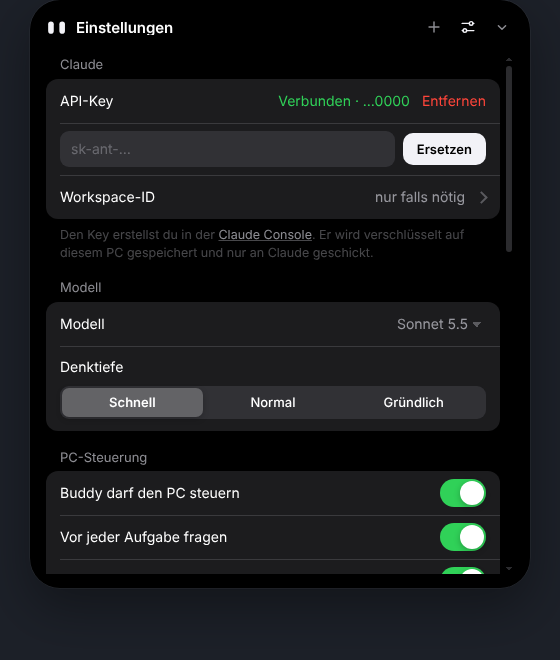
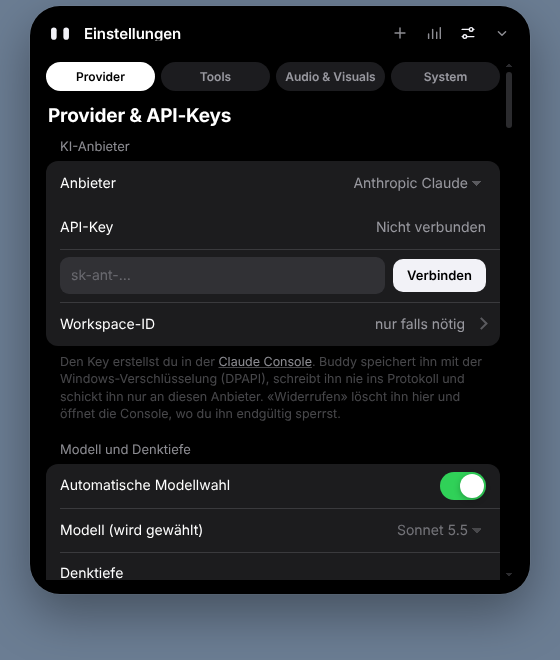
Website für Version 0.4: mehrere KI-Anbieter, lokale KI, Systemsprache, Tool-Erkennung, Visualizer
Neue Funktionskarten und FAQ, Vorschauen für Notch, Musik-Visualizer und die neuen
Einstellungen, Demo mit geschlossenen Augen und Notch, Datenschutz ergänzt.

Claude-Session: https://claude.ai/code/session_019aeRaodHXNXqEmeAxLVjik

diff --git a/index.html b/index.html
@@ -32,15 +32,15 @@
   <main id="top">
     <!-- Hero -->
     <section class="hero">
-      <p class="eyebrow">Testversion 0.3 · Windows 10 & 11</p>
+      <p class="eyebrow">Testversion 0.4 · Windows 10 & 11</p>
       <h1>Dein Assistent wohnt<br>oben am Bildschirm.</h1>
-      <p class="lead">Buddy Island bringt Claude in ein kleines Island oben in der Mitte deines Windows-Bildschirms. Fragen, Timer, Musik, Termine, Mitteilungen, und wenn du willst, bedient Buddy den PC für dich.</p>
+      <p class="lead">Buddy Island ist ein kleines Island oben in der Mitte deines Windows-Bildschirms. Fragen, Timer, Musik, Termine, Mitteilungen, und wenn du willst, bedient Buddy den PC für dich. Er läuft gratis mit einer lokalen KI auf deinem PC oder mit Claude, OpenAI, Grok oder Gemini.</p>
       <div class="cta" id="download">
         <a class="btn" id="downloadBtn" href="https://github.com/wolfawidmer-sudo/buddy-island/releases/latest">
           <svg viewBox="0 0 20 20" aria-hidden="true"><path d="M10 3.5v9M6 9l4 4 4-4M4 16.5h12"/></svg>
           Für Windows herunterladen
         </a>
-        <p class="cta-note"><span id="downloadInfo">Gratis · ca. 120 MB</span> · braucht einen eigenen <a href="#faq-key">Claude-API-Key</a></p>
+        <p class="cta-note"><span id="downloadInfo">Gratis · ca. 120 MB</span> · läuft lokal ohne Konto, <a href="#faq-key">API-Key optional</a></p>
       </div>
 
       <!-- Vorschau: animiertes Island auf einem Bildschirm -->
@@ -64,18 +64,18 @@
         <div class="cursor" id="demoCursor" aria-hidden="true"></div>
         <div class="taskbar" aria-hidden="true"><i></i><i></i><i></i><i></i><i></i></div>
       </div>
-      <p class="screen-caption" id="demoCaption">Im Ruhezustand ist Buddy nur ein kleines Island.</p>
+      <p class="screen-caption" id="demoCaption">Im Ruhezustand zeigt Buddy nur seine Augen.</p>
     </section>
 
     <!-- Funktionen -->
     <section class="section" id="funktionen">
       <h2>Alles, was ein Assistent können sollte.</h2>
-      <p class="section-lead">Buddy läuft mit deinem eigenen Claude-API-Key und braucht kein Konto bei uns.</p>
+      <p class="section-lead">Buddy braucht kein Konto bei uns. Er startet mit einer lokalen KI und nimmt auf Wunsch deinen eigenen API-Key.</p>
       <div class="features">
         <article class="feature">
           <svg viewBox="0 0 24 24" aria-hidden="true"><path d="M12 3v4M12 17v4M4.5 7.5l3 2M16.5 14.5l3 2M4.5 16.5l3-2M16.5 9.5l3-2"/><circle cx="12" cy="12" r="3"/></svg>
           <h3>Automatische Modellwahl</h3>
-          <p>Haiku prüft jede Anfrage und nimmt das günstigste Modell, das reicht. Hakt es, wechselt Buddy selbst auf ein stärkeres.</p>
+          <p>Ein kleines Modell prüft jede Anfrage und nimmt das günstigste, das reicht. Hakt es, wechselt Buddy selbst auf ein stärkeres.</p>
         </article>
         <article class="feature">
           <svg viewBox="0 0 24 24" aria-hidden="true"><path d="M5 6h14M5 12h14M5 18h8"/><path d="M16 17l2 2 3-4"/></svg>
@@ -88,19 +88,34 @@
           <p>Kosten, Tokens und Limits von Buddy, Claude Code, Codex und mehr. Was ein Anbieter nicht herausgibt, steht ehrlich als «nicht verfügbar».</p>
         </article>
         <article class="feature">
-          <svg viewBox="0 0 24 24" aria-hidden="true"><path d="M4 6.5A2.5 2.5 0 0 1 6.5 4h11A2.5 2.5 0 0 1 20 6.5v7a2.5 2.5 0 0 1-2.5 2.5H10l-4 4v-4h0A2 2 0 0 1 4 14z"/></svg>
-          <h3>Chat mit Claude</h3>
-          <p>Antworten erscheinen live im Island, mit Code-Blöcken und Kopieren-Knopf.</p>
+          <svg viewBox="0 0 24 24" aria-hidden="true"><circle cx="6" cy="7" r="2.5"/><circle cx="18" cy="7" r="2.5"/><circle cx="12" cy="17.5" r="2.5"/><path d="M8 8.5l2.8 6.6M16 8.5l-2.8 6.6M8.5 7h7"/></svg>
+          <h3>Deine Wahl der KI</h3>
+          <p>Claude, OpenAI, Grok, Gemini oder ein lokales Modell von Hugging Face. Was ein Modell nicht kann (z. B. Bildschirmfotos), sagt Buddy ehrlich.</p>
+        </article>
+        <article class="feature">
+          <svg viewBox="0 0 24 24" aria-hidden="true"><rect x="4" y="4" width="16" height="12" rx="2"/><path d="M8 20h8M12 16v4M8 9l2.5 2.5L8 14M13 14h3"/></svg>
+          <h3>Lokal und gratis</h3>
+          <p>Buddy prüft Arbeitsspeicher, Prozessor und Grafikkarte, empfiehlt das schnellste und das beste Modell und richtet es mit einem Klick ein. Danach läuft er ohne Internet.</p>
+        </article>
+        <article class="feature">
+          <svg viewBox="0 0 24 24" aria-hidden="true"><circle cx="12" cy="12" r="8.5"/><path d="M3.5 12h17M12 3.5c2.5 2.6 3.5 5.4 3.5 8.5s-1 5.9-3.5 8.5c-2.5-2.6-3.5-5.4-3.5-8.5s1-5.9 3.5-8.5z"/></svg>
+          <h3>Spricht deine Sprache</h3>
+          <p>Buddy übernimmt beim Start die Sprache von Windows: Oberfläche und Antworten kommen auf Deutsch, Englisch oder Französisch.</p>
+        </article>
+        <article class="feature">
+          <svg viewBox="0 0 24 24" aria-hidden="true"><circle cx="10.5" cy="10.5" r="6"/><path d="M15 15l5 5M8 10.5h5M10.5 8v5"/></svg>
+          <h3>Erkennt deine Tools</h3>
+          <p>Claude Code, Codex, ChatGPT, Gemini CLI und lokale Laufzeiten findet Buddy selbst. Was nicht installiert ist, taucht in Buddy gar nicht erst auf.</p>
         </article>
         <article class="feature">
           <svg viewBox="0 0 24 24" aria-hidden="true"><path d="M5 4l5 15 2.5-6.5L19 10z"/></svg>
           <h3>PC-Steuerung</h3>
-          <p>«Öffne den Editor und schreib eine Einkaufsliste.» Buddy fragt vorher und bedient dann Maus und Tastatur.</p>
+          <p>«Öffne den Editor und schreib eine Einkaufsliste.» Buddy fragt vorher und bedient dann Maus und Tastatur (mit Claude).</p>
         </article>
         <article class="feature">
           <svg viewBox="0 0 24 24" aria-hidden="true"><path d="M9 18V6l10-2v12"/><circle cx="6.5" cy="18" r="2.5"/><circle cx="16.5" cy="16" r="2.5"/></svg>
-          <h3>Läuft gerade</h3>
-          <p>Musik aus Spotify oder YouTube erscheint mit Cover im Island. Pause und Weiter direkt dort.</p>
+          <h3>Musik mit Visualizer</h3>
+          <p>Spotify oder YouTube erscheinen mit Cover im Island, die Balken folgen dem echten Systemton. Pause und Weiter direkt dort.</p>
         </article>
         <article class="feature">
           <svg viewBox="0 0 24 24" aria-hidden="true"><rect x="4" y="5.5" width="16" height="14" rx="2.5"/><path d="M4 10h16M8.5 3.5v4M15.5 3.5v4"/></svg>
@@ -131,6 +146,48 @@
     </section>
 
     <!-- Bilder -->
+    <!-- Neu in 0.4: Vorschauen aus HTML und CSS, gleiche Kurven wie in der App -->
+    <section class="section" id="neu">
+      <h2>Neu in Version 0.4.</h2>
+      <p class="section-lead">Mehr Auswahl bei der KI, ein echter Musik-Visualizer und ein Island, das sich ganz an den Bildschirmrand schmiegt.</p>
+      <div class="mocks">
+        <figure class="mock">
+          <div class="mock-screen" aria-hidden="true">
+            <div class="m-island m-notch" id="mockNotch"><span class="m-eyes"><i></i><i></i></span></div>
+            <span class="m-hint" id="mockNotchHint">Nach oben ziehen</span>
+          </div>
+          <figcaption><b>Notch-Modus.</b> Zieh das Island nach oben: Es wird zu einer tiefschwarzen Kerbe am Bildschirmrand, ohne Schatten und ohne Spalt. Nach unten ziehen oder klicken holt es zurück.</figcaption>
+        </figure>
+        <figure class="mock">
+          <div class="mock-screen" aria-hidden="true">
+            <div class="m-music">
+              <span class="m-cover"></span>
+              <span class="m-track"><b>Blinding Lights</b><small>The Weeknd</small></span>
+              <span class="m-bars" id="mockBars"><i></i><i></i><i></i><i></i><i></i><i></i><i></i></span>
+            </div>
+          </div>
+          <figcaption><b>Musik mit Visualizer.</b> Cover und Titel im Island, die Balken folgen dem Pegel der Windows-Tonausgabe. Es wird nichts aufgenommen.</figcaption>
+        </figure>
+        <figure class="mock">
+          <div class="mock-screen mock-settings" aria-hidden="true">
+            <div class="m-panel">
+              <div class="m-tabs"><span class="on">Provider</span><span>Tools</span><span>Audio &amp; Visuals</span><span>System</span></div>
+              <p class="m-h">Provider &amp; API-Keys</p>
+              <div class="m-group">
+                <div class="m-row"><span>Anbieter</span><span class="m-select" id="mockProvider">Lokal (Hugging Face)</span></div>
+                <div class="m-row"><span>Lokales Modell</span><span class="m-val" id="mockModel">Qwen2.5 3B · bereit</span></div>
+              </div>
+              <div class="m-group m-reco">
+                <div class="m-row"><span>Am schnellsten</span><span class="m-val">Qwen2.5 1.5B</span></div>
+                <div class="m-row"><span>Beste Antworten</span><span class="m-val">Qwen2.5 3B</span></div>
+              </div>
+            </div>
+          </div>
+          <figcaption><b>Neue Einstellungen.</b> Vier klare Bereiche, Anbieter per Auswahl, Empfehlung für deinen PC. Erkannte Tools erscheinen nur, wenn sie installiert sind.</figcaption>
+        </figure>
+      </div>
+    </section>
+
     <section class="section shots">
       <h2>Ruhig, klar, ohne Ablenkung.</h2>
       <p class="section-lead">Im Leerlauf läuft keine einzige Animation. CPU und GPU bleiben praktisch bei 0 %.</p>
@@ -138,7 +195,7 @@
         <figure><img src="img/music.png" alt="Offenes Island mit laufender Musik und Vorschlägen"><figcaption>Musik und Vorschläge</figcaption></figure>
         <figure><img src="img/chat.png" alt="Chat mit Timer und Mitteilungen"><figcaption>Timer und Mitteilungen</figcaption></figure>
         <figure><img src="img/confirm.png" alt="Buddy fragt, ob er den PC steuern darf"><figcaption>Fragt vor dem Steuern</figcaption></figure>
-        <figure><img src="img/settings.png" alt="Einstellungen im iOS-Stil"><figcaption>Einstellungen</figcaption></figure>
+        <figure><img src="img/settings.png" alt="Einstellungen mit den Bereichen Provider, Tools, Audio &amp; Visuals und System"><figcaption>Einstellungen mit Anbieter-Wahl</figcaption></figure>
       </div>
       <figure class="wide"><img src="img/glow.png" alt="Leuchtender weiss-grauer Rand um den Bildschirm"><figcaption>Wenn Buddy hinschaut oder steuert, leuchtet der Bildschirmrand.</figcaption></figure>
     </section>
@@ -157,7 +214,7 @@
         </li>
         <li>
           <span class="step-n">3</span>
-          <div><h3>API-Key verbinden</h3><p>Erstelle in der <a href="https://platform.claude.com/settings/keys" rel="noopener">Claude Console</a> einen Key, klick oben aufs Island und füge ihn unter «API-Key verbinden» ein.</p></div>
+          <div><h3>KI einrichten</h3><p>Klick aufs Island und dann auf «Lokale KI einrichten»: Buddy wählt das passende Modell für deinen PC und lädt es. Lieber Claude, OpenAI, Grok oder Gemini? Füge in den Einstellungen unter «Provider &amp; API-Keys» deinen Key ein.</p></div>
         </li>
         <li>
           <span class="step-n">4</span>
@@ -176,11 +233,11 @@
         </div>
         <div class="card">
           <h3>Verschlüsselt gespeichert</h3>
-          <p>API-Key und Kalender-Link liegen mit der Windows-Verschlüsselung nur auf deinem PC.</p>
+          <p>API-Keys und Kalender-Link liegen mit der Windows-Verschlüsselung nur auf deinem PC. Lokale Modelle schicken gar nichts weg.</p>
         </div>
         <div class="card">
           <h3>Du entscheidest</h3>
-          <p>Bildschirmfotos gehen nur bei der PC-Steuerung an Claude, und nur nachdem du erlaubt hast.</p>
+          <p>Texte gehen nur an den KI-Anbieter, den du wählst. Bildschirmfotos nur bei der PC-Steuerung mit Claude, und nur nachdem du erlaubt hast.</p>
         </div>
       </div>
       <p class="more"><a href="privacy.html">Ganze Datenschutzerklärung lesen →</a></p>
@@ -191,8 +248,16 @@
       <h2>Fragen</h2>
       <div class="faq">
         <details id="faq-key">
-          <summary>Was ist ein Claude-API-Key und was kostet er?</summary>
-          <p>Mit dem Key nutzt Buddy Claude direkt bei Anthropic. Du bezahlst dort nur, was du brauchst, meist wenige Rappen pro Unterhaltung. Die PC-Steuerung kostet mehr, weil Bildschirmfotos mitgeschickt werden. Buddy selbst ist gratis.</p>
+          <summary>Brauche ich einen API-Key?</summary>
+          <p>Nein. Ohne Key läuft Buddy mit einem lokalen Modell gratis auf deinem PC. Ein Key von Claude, OpenAI, xAI (Grok) oder Google (Gemini) macht die Antworten klüger und ist nötig für die PC-Steuerung (nur Claude). Du bezahlst beim Anbieter nur, was du brauchst, meist wenige Rappen pro Unterhaltung.</p>
+        </details>
+        <details>
+          <summary>Welches lokale Modell passt zu meinem PC?</summary>
+          <p>Buddy misst Arbeitsspeicher, Prozessor und Grafikkarte und schlägt zwei Modelle vor: das schnellste und das mit den besten Antworten. Mit einer NVIDIA-Grafikkarte laufen auch grössere Modelle flüssig, sonst sind kleine Modelle wie Qwen2.5 1.5B die beste Wahl. Der erste Download braucht etwa 1 bis 3 GB.</p>
+        </details>
+        <details>
+          <summary>In welcher Sprache antwortet Buddy?</summary>
+          <p>In der Sprache von Windows. Die Oberfläche gibt es auf Deutsch, Englisch und Französisch, für andere Sprachen ist sie englisch, die Antworten kommen trotzdem in deiner Sprache. In den Einstellungen kannst du die Sprache auch fest wählen.</p>
         </details>
         <details>
           <summary>Warum warnt Windows beim Installieren?</summary>
@@ -215,8 +280,8 @@
   </main>
 
   <footer class="footer">
-    <p>Buddy Island ist ein Testprojekt von Wolf Widmer · Version 0.3.0</p>
-    <p>Nutzt Claude von Anthropic über die offizielle API. Kein offizielles Produkt von Anthropic, Apple oder Microsoft.</p>
+    <p>Buddy Island ist ein Testprojekt von Wolf Widmer · Version 0.4.0</p>
+    <p>Nutzt die offiziellen APIs von Anthropic, OpenAI, xAI und Google oder lokale Modelle über Hugging Face Transformers. Kein offizielles Produkt dieser Firmen, von Apple oder Microsoft.</p>
     <p><a href="privacy.html">Datenschutz</a> · <a href="https://github.com/wolfawidmer-sudo/buddy-island">Quellcode auf GitHub</a></p>
   </footer>
 

diff --git a/style.css b/style.css
@@ -168,7 +168,7 @@ h1 {
   border-radius: 19px;
   background: #000;
   box-shadow: 0 0 0 0.5px rgba(255, 255, 255, 0.08);
-  transition: width 0.55s var(--spring), height 0.45s var(--ease), border-radius 0.45s var(--ease);
+  transition: width 0.55s var(--spring), height 0.45s var(--ease), border-radius 0.45s var(--ease), top 0.45s var(--ease);
   overflow: hidden;
   white-space: nowrap;
   font-size: 13px;
@@ -316,3 +316,62 @@ figcaption { margin-top: 10px; font-size: 14px; color: var(--text-3); text-align
   *, *::before, *::after { animation: none !important; transition: none !important; }
   html { scroll-behavior: auto; }
 }
+
+/* ---------- Neu in 0.4: Vorschauen ---------- */
+.mocks { display: grid; grid-template-columns: repeat(3, minmax(0, 1fr)); gap: 18px; margin-top: 28px; }
+.mock { margin: 0; display: flex; flex-direction: column; gap: 12px; }
+.mock figcaption { font-size: 14px; color: var(--text-2); line-height: 1.5; }
+.mock figcaption b { color: var(--text); font-weight: 600; }
+.mock-screen {
+  position: relative; height: 210px; border-radius: 16px; overflow: hidden;
+  background: radial-gradient(120% 90% at 20% 0%, #3a4a63 0%, #1d2532 55%, #12161d 100%);
+  border: 1px solid var(--line);
+}
+/* Island bzw. Notch: tiefes Schwarz, keine Schatten, kein Spalt zum Rand */
+.m-island {
+  position: absolute; left: 50%; top: 12px; transform: translateX(-50%);
+  width: 112px; height: 32px; border-radius: 16px; background: #000;
+  display: flex; align-items: center; justify-content: center;
+  transition: top 0.45s var(--ease), height 0.45s var(--ease), width 0.5s var(--spring), border-radius 0.45s var(--ease);
+}
+.m-island.is-notch { top: -1px; height: 18px; width: 128px; border-radius: 0 0 11px 11px; }
+.m-eyes { display: flex; gap: 5px; transition: opacity 0.3s var(--ease); }
+.m-eyes i { width: 9px; height: 2.5px; border-radius: 2px; background: var(--accent); }
+.m-island.is-notch .m-eyes { opacity: 0; }
+.m-hint { position: absolute; left: 50%; bottom: 18px; transform: translateX(-50%); font-size: 12px; color: rgba(255, 255, 255, 0.55); white-space: nowrap; transition: opacity 0.3s; }
+
+.m-music {
+  position: absolute; left: 50%; top: 12px; transform: translateX(-50%);
+  width: min(300px, 88%); height: 52px; border-radius: 26px; background: #000;
+  display: flex; align-items: center; gap: 10px; padding: 0 16px 0 10px; box-sizing: border-box;
+}
+.m-cover { width: 34px; height: 34px; border-radius: 9px; flex: none; background: linear-gradient(135deg, #e8505b 0%, #c2185b 45%, #f7a440 100%); }
+.m-track { display: flex; flex-direction: column; min-width: 0; flex: 1; line-height: 1.25; font-size: 13px; }
+.m-track b { font-weight: 600; white-space: nowrap; overflow: hidden; text-overflow: ellipsis; }
+.m-track small { color: var(--text-2); font-size: 11.5px; }
+.m-bars { display: flex; align-items: flex-end; gap: 2.5px; height: 18px; flex: none; }
+.m-bars i { width: 3px; height: 100%; border-radius: 2px; background: var(--accent); transform-origin: 50% 100%; transform: scaleY(0.3); will-change: transform; }
+
+.mock-settings { display: flex; justify-content: center; align-items: flex-start; padding-top: 12px; box-sizing: border-box; }
+.m-panel { width: 88%; background: #000; border-radius: 18px; padding: 10px; font-size: 11.5px; box-sizing: border-box; }
+.m-tabs { display: flex; gap: 4px; }
+.m-tabs span { flex: 1; text-align: center; padding: 4px 0; border-radius: 99px; background: rgba(255, 255, 255, 0.1); color: var(--text-2); white-space: nowrap; font-size: 10px; }
+.m-tabs span.on { background: #fff; color: #000; font-weight: 600; }
+.m-h { margin: 10px 2px 6px; font-weight: 700; font-size: 13px; }
+.m-group { background: rgba(255, 255, 255, 0.08); border-radius: 10px; padding: 0 10px; margin-bottom: 6px; }
+.m-row { display: flex; justify-content: space-between; gap: 8px; padding: 6px 0; }
+.m-row + .m-row { border-top: 1px solid rgba(255, 255, 255, 0.08); }
+.m-row span:first-child { color: var(--text); }
+.m-val, .m-select { color: var(--text-2); white-space: nowrap; transition: opacity 0.25s var(--ease); }
+.m-select::after { content: " ▾"; font-size: 9px; }
+.m-reco .m-val { color: var(--accent); }
+
+/* Ruhezustand der Vorschau: nur die geschlossenen Augen, zentriert */
+.island[data-state="idle"] { width: 118px; justify-content: center; padding: 0; }
+.island[data-state="idle"] .d-text { display: none; }
+.island[data-state="idle"] .d-face i { width: 9px; height: 2.5px; border-radius: 2px; }
+.island.notch { top: 0; height: 18px; width: 132px; border-radius: 0 0 11px 11px; box-shadow: none; padding: 0; }
+.island > * { transition: opacity 0.3s var(--ease); }
+.island.notch > * { opacity: 0; }
+
+@media (max-width: 860px) { .mocks { grid-template-columns: 1fr; } }

diff --git a/script.js b/script.js
@@ -9,9 +9,10 @@
   if (!island) return;
 
   const scenes = [
-    { state: 'idle', label: 'Buddy', caption: 'Im Ruhezustand ist Buddy nur ein kleines Island.', ms: 2600 },
-    { state: 'busy', label: 'denkt …', caption: 'Frag etwas – Buddy denkt mit Claude nach.', ms: 2400 },
-    { state: 'music', label: 'Blinding Lights · The Weeknd', caption: 'Musik aus Spotify oder YouTube erscheint im Island.', ms: 3000 },
+    { state: 'idle', label: '', caption: 'Im Ruhezustand zeigt Buddy nur seine Augen.', ms: 2600 },
+    { state: 'idle', label: '', notch: true, caption: 'Nach oben gezogen wird das Island zur schwarzen Kerbe am Rand.', ms: 2600 },
+    { state: 'busy', label: 'denkt …', caption: 'Frag etwas – Buddy denkt lokal oder mit Claude, OpenAI, Grok oder Gemini nach.', ms: 2400 },
+    { state: 'music', label: 'Blinding Lights · The Weeknd', caption: 'Musik erscheint mit Cover, die Balken folgen dem Ton.', ms: 3000 },
     { state: 'peek', small: 'WhatsApp', label: 'Lea: Kommst du heute ins Training?', caption: 'Mitteilungen kommen oben statt unten rechts.', ms: 3200 },
     { state: 'timer', label: 'Pizza  9:58', caption: '«Stell einen Timer für die Pizza.»', ms: 2600, tick: true },
     { state: 'control', label: 'Klickt …', caption: 'Auf Wunsch bedient Buddy den PC – der Rand zeigt, dass er hinschaut.', ms: 4200, glow: true },
@@ -23,6 +24,7 @@
 
   function show(scene) {
     island.dataset.state = scene.state;
+    island.classList.toggle('notch', Boolean(scene.notch));
     label.textContent = scene.label;
     small.textContent = scene.small || '';
     caption.textContent = scene.caption;
@@ -69,6 +71,62 @@
     }
   });
   io.observe(screen);
+})();
+
+// Vorschauen «Neu in 0.4»: Notch, Visualizer, Anbieter-Auswahl
+(function () {
+  const reduced = window.matchMedia('(prefers-reduced-motion: reduce)').matches;
+  const notch = document.getElementById('mockNotch');
+  const hint = document.getElementById('mockNotchHint');
+  const bars = [...document.querySelectorAll('#mockBars i')];
+  const provider = document.getElementById('mockProvider');
+  const model = document.getElementById('mockModel');
+  const section = document.getElementById('neu');
+  if (!section || reduced) return;
+  let visible = false;
+  new IntersectionObserver((e) => { visible = e.some((x) => x.isIntersecting); if (visible) loop(); }).observe(section);
+
+  // Notch: abwechselnd hochziehen und zurückholen
+  let up = false;
+  setInterval(() => {
+    if (!visible || !notch) return;
+    up = !up;
+    notch.classList.toggle('is-notch', up);
+    if (hint) hint.textContent = up ? 'Klicken oder nach unten ziehen' : 'Nach oben ziehen';
+  }, 2600);
+
+  // Anbieter-Auswahl durchschalten
+  const options = [['Lokal (Hugging Face)', 'Qwen2.5 3B · bereit'], ['Anthropic Claude', 'Automatisch'], ['OpenAI', 'gpt-4o-mini'], ['xAI Grok', 'Automatisch'], ['Google Gemini', 'gemini-2.5-flash']];
+  let o = 0;
+  setInterval(() => {
+    if (!visible || !provider) return;
+    o = (o + 1) % options.length;
+    provider.style.opacity = model.style.opacity = '0';
+    setTimeout(() => { provider.textContent = options[o][0]; model.textContent = options[o][1]; provider.style.opacity = model.style.opacity = '1'; }, 250);
+  }, 2200);
+
+  // Visualizer: gleiche Hüllkurve wie in der App (schneller Anstieg, langsames Abklingen)
+  const ATTACK = [0.55, 0.6, 0.65, 0.6, 0.55, 0.5, 0.45];
+  const DECAY = [0.05, 0.06, 0.07, 0.06, 0.05, 0.045, 0.04];
+  const level = bars.map(() => 0.2);
+  let raf = 0;
+  function loop() {
+    if (raf || !bars.length) return;
+    const step = (ts) => {
+      raf = 0;
+      if (!visible) return;
+      const beat = Math.pow(Math.max(0, Math.sin(ts / 1000 * Math.PI * 2 * (171 / 120))), 6); // 171 BPM
+      bars.forEach((b, i) => {
+        const band = 0.35 + 0.65 * beat * (1 - i * 0.07) + 0.18 * Math.sin(ts / (180 + i * 37) + i) * Math.random();
+        const want = Math.min(1, Math.max(0.12, band));
+        const cur = level[i];
+        level[i] = want > cur ? cur + (want - cur) * ATTACK[i] : Math.max(want, cur - DECAY[i]);
+        b.style.transform = `scaleY(${level[i].toFixed(3)})`;
+      });
+      raf = requestAnimationFrame(step);
+    };
+    raf = requestAnimationFrame(step);
+  }
 })();
 
 // Download-Knopf direkt auf den neusten Installer zeigen lassen

diff --git a/privacy.html b/privacy.html
@@ -22,17 +22,21 @@
       <h1>Datenschutz bei Buddy Island</h1>
       <p>Stand: November 2026</p>
       <p>Buddy Island ist ein privates Testprojekt von Wolf Widmer. Die App läuft vollständig auf deinem Windows-PC. Es gibt keine Server von Buddy Island, kein Konto, keine Werbung und keine Statistiken.</p>
-      <h2>Was an Claude (Anthropic) geht</h2>
-      <p>Buddy benutzt die Claude-API mit <b>deinem eigenen API-Key</b>. An Anthropic gehen nur:</p>
+      <h2>Lokale KI</h2>
+      <p>Ohne API-Key läuft Buddy mit einem <b>lokalen Modell</b> (Hugging Face Transformers) auf deinem PC. Dabei verlässt nichts von deinen Eingaben den PC. Nur beim Einrichten lädt Buddy Python-Pakete (von python.org bzw. dem Microsoft Store und PyPI) und das Modell (von Hugging Face) herunter. Zur Empfehlung des Modells liest Buddy Arbeitsspeicher, Prozessor und Grafikkarte aus, nur auf dem PC.</p>
+      <h2>Was an den gewählten KI-Anbieter geht</h2>
+      <p>Wählst du Claude (Anthropic), OpenAI, Grok (xAI) oder Gemini (Google), benutzt Buddy dessen API mit <b>deinem eigenen API-Key</b>. Der Key geht nur an diesen einen Anbieter. An ihn gehen nur:</p>
       <ul>
       <li>was du Buddy schreibst oder sagst, und seine Antworten,</li>
       <li>Ergebnisse der Werkzeuge, die Buddy für deine Anfrage benutzt (zum Beispiel «Timer gestellt», deine Termine oder Mitteilungen, aber nur wenn du danach fragst),</li>
-      <li>bei der <b>PC-Steuerung</b> Bildschirmfotos deines Bildschirms. Buddy fragt vorher um Erlaubnis. Lass ihn nicht steuern, während Passwörter oder Privates offen sind.</li>
+      <li>bei der <b>PC-Steuerung</b> (nur mit Claude) Bildschirmfotos deines Bildschirms. Buddy fragt vorher um Erlaubnis. Lass ihn nicht steuern, während Passwörter oder Privates offen sind.</li>
       </ul>
-      <p>Wie Anthropic diese Daten behandelt, steht in der Datenschutzerklärung von Anthropic für die API.</p>
+      <p>Wie der Anbieter diese Daten behandelt, steht in seiner Datenschutzerklärung für die API.</p>
       <h2>Was nur auf deinem PC bleibt</h2>
       <ul>
-      <li>Dein <b>API-Key</b> und dein <b>Kalender-Link</b>: mit der Windows-Verschlüsselung (DPAPI) gespeichert.</li>
+      <li>Deine <b>API-Keys</b>, ein allfälliger <b>Hugging-Face-Token</b> und dein <b>Kalender-Link</b>: mit der Windows-Verschlüsselung (DPAPI) gespeichert.</li>
+      <li><b>Erkannte Tools</b>: Buddy prüft nur, ob Programme wie Claude Code, Codex oder Python installiert sind (Pfade und Versionen), nicht deren Inhalte. Die Protokolle von Claude Code und Codex liest er nur für die Nutzungsansicht, abschaltbar in den Einstellungen.</li>
+      <li><b>Musik-Visualizer</b>: Buddy liest nur den Pegel der Windows-Tonausgabe (wie der Lautstärkemixer). Es wird nichts aufgenommen oder gespeichert.</li>
       <li><b>Chatverlauf</b>, <b>Einstellungen</b> und ein kurzes <b>Protokoll</b> für die Fehlersuche (ohne Chat-Inhalte) im Ordner <code>%APPDATA%\Buddy Island</code>.</li>
       <li><b>Windows-Mitteilungen</b>, <b>«Läuft gerade»</b> (Musik) und <b>Termine</b>: Buddy liest sie nur, um sie im Island zu zeigen. Sie werden nicht dauerhaft gespeichert.</li>
       <li><b>Spielmodus</b>: Buddy schaut nur, welches Programm im Vordergrund ist und ob Windows «Vollbild» meldet.</li>
